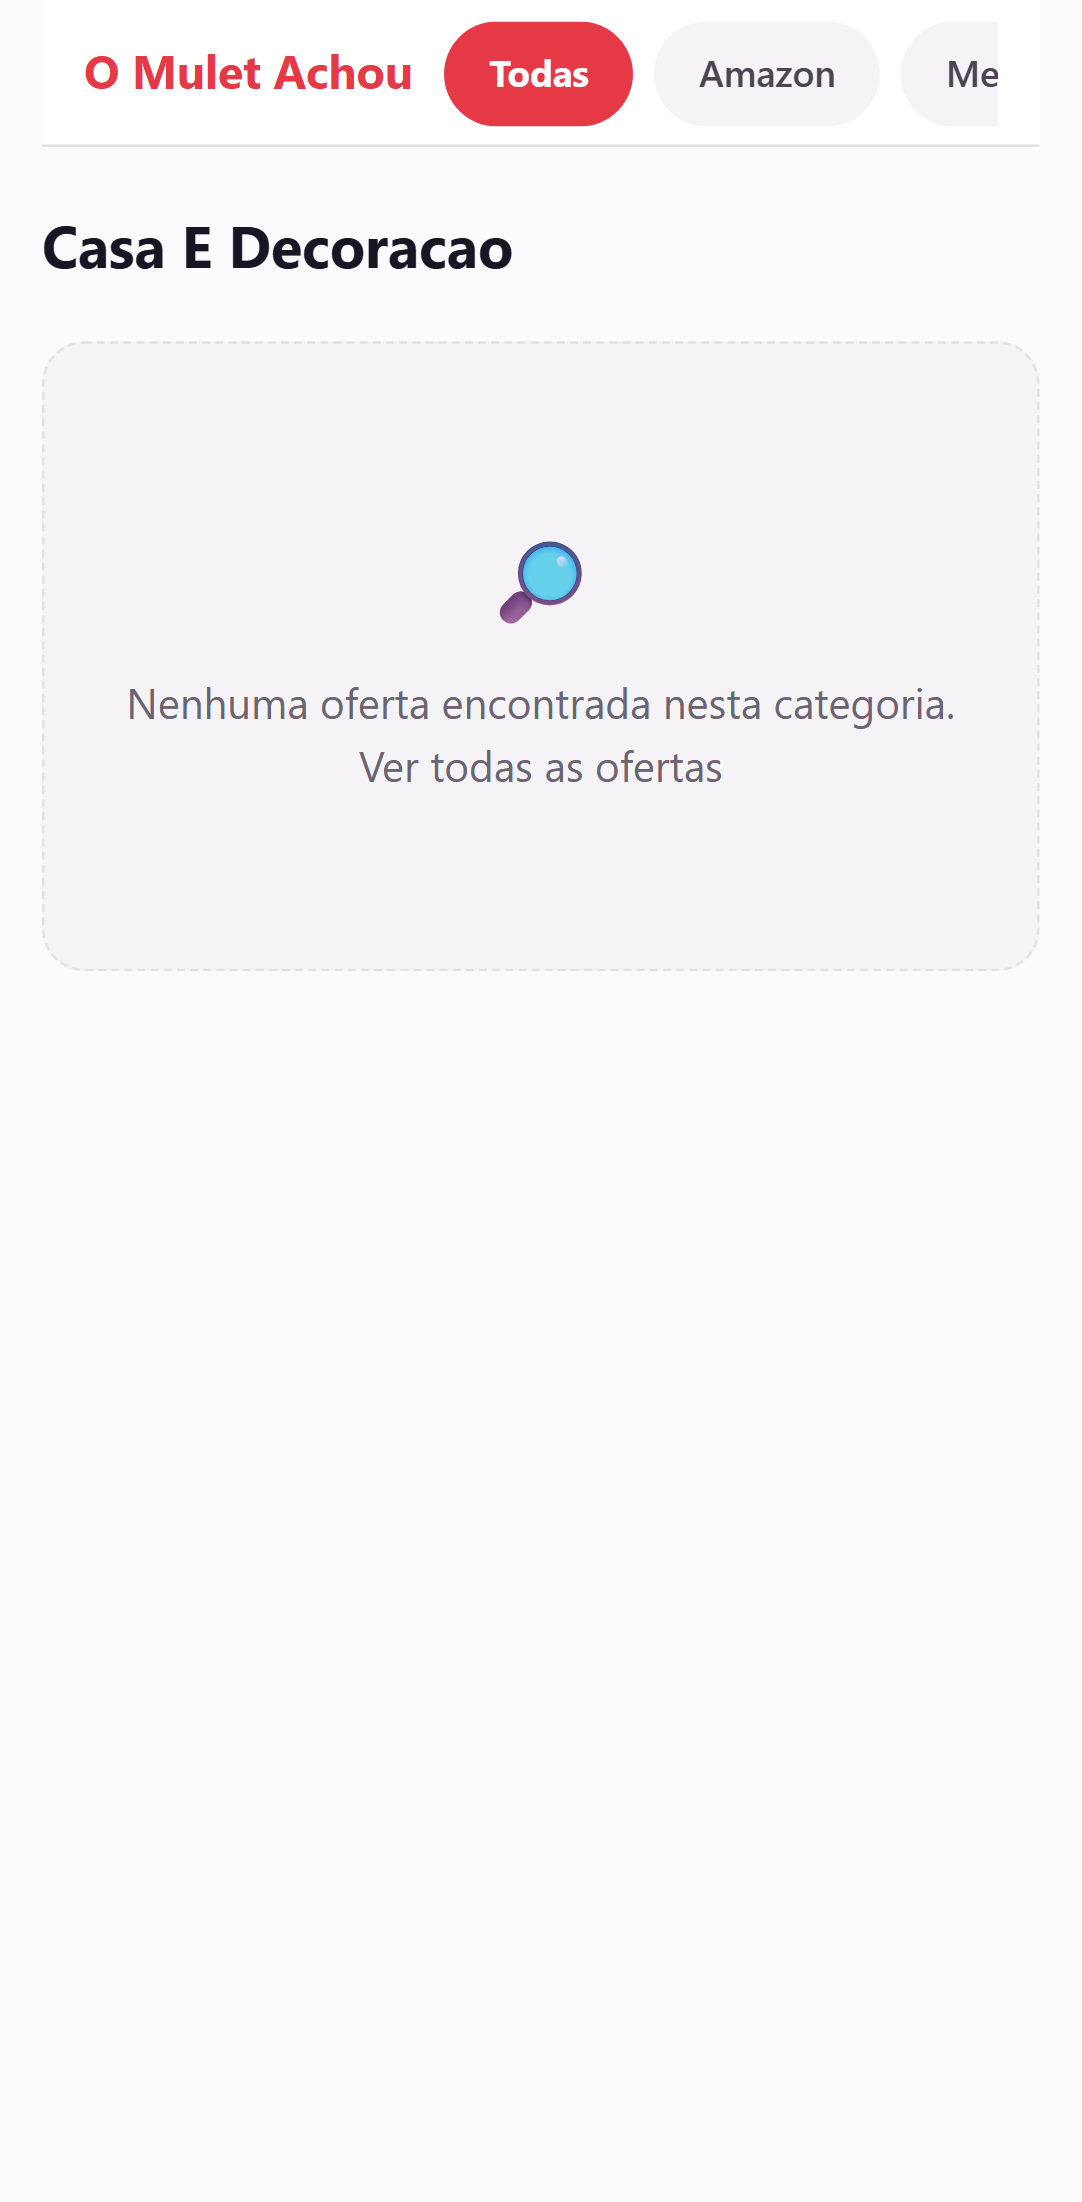
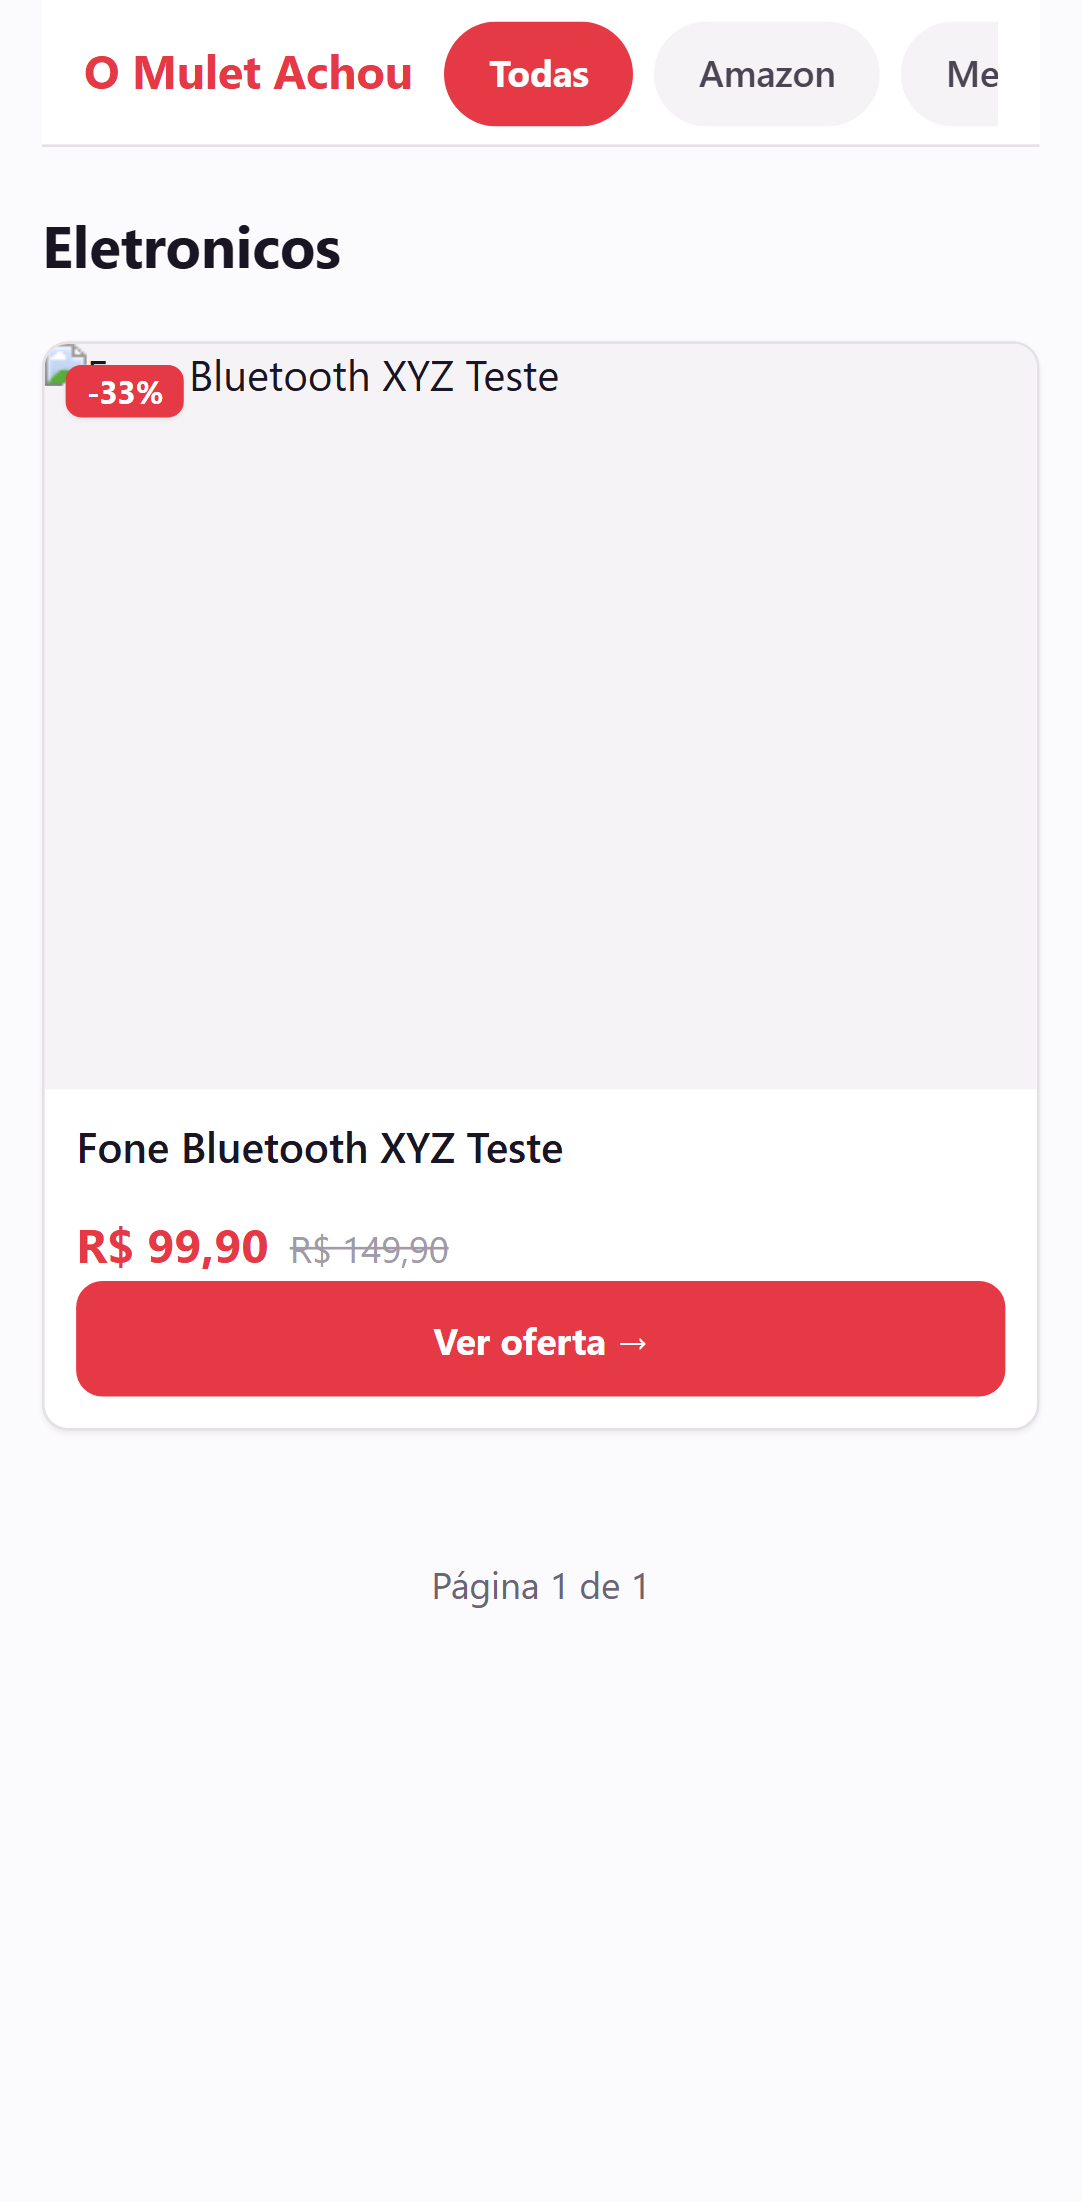
docs(ISSUE-154): registra Code Review aprovado PR #161 (merge desenv->homolog) + screenshots atualizados

diff --git a/documentacoes/ISSUE-154-site-sem-css/estado.md b/documentacoes/ISSUE-154-site-sem-css/estado.md
@@ -1,8 +1,8 @@
 ---
 issue: 154
 titulo: "bug: Site público (website) sem nenhum estilo CSS implementado — apenas HTML puro"
-etapa_atual: "Novo PR de homologação criado (#161, desenv->homolog) cobrindo fix pós-QA de #156 — aguardando /code-review + Code Review"
-ultimo_agente: lt
+etapa_atual: "Code Review aprovou PR #161 (validação final, header ausente em deal-detail corrigido) — merge desenv->homolog concluído — aguardando QA"
+ultimo_agente: code-review
 rota: normal
 openspec_change: repos/omuletachou/openspec/changes/issue-154-site-sem-css
 tech_stacks: [nodejs]
@@ -16,7 +16,7 @@ sub_issues: ["#156 (stack:nodejs, task_id:T-01) — fechada novamente (fix heade
 desenv_tasks_merged: ["#156"]
 pr_feature: "#160 (feature/ISSUE-156-header-deal-detail -> desenv, squash merged, delete-branch) — fix pontual do achado de QA (PR #157 é histórico do ciclo anterior)"
 sub_issues_frontend: {}
-pr_homologacao: "#161 (desenv -> homolog, merge commit) — novo PR cobrindo o fix de #156 (PR #160); PR anterior #158 já mesclado/fechado em ciclo anterior"
+pr_homologacao: "#161 (desenv -> homolog, merge commit, MERGEADO) — cobriu o fix de #156 (PR #160); PR anterior #158 já mesclado/fechado em ciclo anterior"
 pr_release: ~
 code_review_homolog_pr: 161
 qa_status: ~
@@ -80,8 +80,8 @@ Não há ambiguidade arquitetural real: não é decisão de arquitetura de siste
 9. Líder Técnico: mapear falha do QA → reabrir sub-issue #156 — **feito**
 10. Dev: fix pontual (`<Header />` em `app/oferta/[slug]/page.tsx`) — **feito** (PR #160)
 11. Líder Técnico: merge PR #160 → desenv + novo PR de homologação #161 (desenv→homolog) — **feito**
-12. Sessão principal: `/code-review` + Code Review — **pendente**
-13. QA (nova rodada) → Gate 2 (Gerente) → merge main — **pendente**
+12. Sessão principal: `/code-review` + Code Review — **feito, aprovado (PR #161 merge desenv→homolog concluído)**
+13. QA (nova rodada) → Gate 2 (Gerente) → merge main — **próximo**
 
 ## UX/UI — Spec visual — concluído
 
@@ -207,6 +207,36 @@ Diferente do ciclo anterior: o PR de homologação anterior (#158, `desenv`→`h
 - **Novo PR de homologação criado**: **#161** (`desenv` → `homolog`, merge commit — nunca squash), referenciando no corpo que corrige o achado de QA do ciclo anterior (PR #158 / `relatorio-qa.md`), já que o PR #158 anterior já estava mesclado e fechado.
 - `repo_path` deixado checked out em `desenv`.
 
+## Code Review — PR #161 (validação final)
+
+Segunda camada de gate para o fix pontual pós-QA (achado trivial e contido — sessão principal já havia feito uma revalidação de escopo do diff, comentário [#161](https://github.com/DQM-BETA/omuletachou/pull/161#issuecomment-5294886574), sem necessidade de rodar `/code-review` completo novamente; único comentário de `/code-review` no PR foi a revalidação da própria sessão principal, sem achados bloqueantes).
+
+**Execução realizada:**
+
+1. `git fetch && git checkout desenv && git pull origin desenv` — já em `desenv`, `d2722ce` (up to date, inclui commit `fec0bb6` do fix `<Header />` + `1f2461b`/`d2722ce` do ledger).
+2. Confirmado no código (`git show desenv:website/app/oferta/[slug]/page.tsx`): `import Header from '@/components/Header'` (linha 5) + `<Header />` renderizado dentro de `<main>` (linha 62), antes do JSON-LD/`<DealDetail />`.
+3. `npm test` (Jest, `website/`): **80/80 passando** (14 test suites), sem regressão — confirma a contagem esperada (79 pré-existentes + 1 novo de regressão CA-1/CA-8).
+4. `npm run build` (`website/`): `✓ Compiled successfully`, `Linting and checking validity of types...` sem erros, 5 rotas geradas (incl. `/oferta/[slug]`).
+5. **Stack Docker real**: `.env` local descartável (a partir de `.env.example`, valores dummy — `DB_PASSWORD`/`JWT_SIGNING_KEY` gerados localmente, nunca reais) + `docker-compose.override.yml` local descartável (expõe 5432/8080/3000 ao host — serviços não têm `ports:` por padrão). `docker compose up -d --build db api website`: build completo (API .NET + Website Next.js standalone), todos os containers `healthy`/`Up`. Catálogo vazio no ambiente local → **2 produtos seedados via SQL direto** (`INSERT INTO products ...`, schema conferido via `\d products`; `status=2` = `Published`, `platform` 0/1 = Amazon/MercadoLivre) — "Fone Bluetooth XPTO Pro" (`slug=fone-bluetooth-xpto-pro`, com desconto/CTA habilitado) e "Mouse Gamer RGB" (`slug=mouse-gamer-rgb`). `curl http://localhost:8080/api/public/deals` confirmou os 2 produtos retornados pela API real.
+6. **Reprodução exata do comando que o QA usou para reprovar**: `curl http://localhost:3000/oferta/fone-bluetooth-xpto-pro | grep -c site-header` → **1** (era 0 antes do fix, no ciclo anterior/PR #158). Confirmado também para `/oferta/mouse-gamer-rgb` → **1**, e ausência de duplicação em `/` (Home) → **1** e `/categoria/Eletronicos` → **1**. Fix comprovado ao vivo, não apenas por leitura de diff.
+7. **Gate Visual**: `SCREENSHOTS_DIR=.../screenshots-cr npm run test:visual` (`STAGING_URL=http://localhost:3000`, contra o container Docker real, não o `webServer` local): **3/3 passed** (Home, Categoria, `deal-detail`). Screenshots **inspecionados visualmente**:
+   - `deal-detail.png`: header ("O Mulet Achou" + chips de plataforma "Todas"/"Amazon"/"Me...") visível **exatamente 1x** no topo, sem duplicação, seguido de mídia do produto, título, categoria, preço atual/riscado, CTA "Comprar agora →" e seção "Mais ofertas" reaproveitando `.deal-card`. Layout completo e coerente com `ux-ui-spec.md`.
+   - `home.png`: header 1x, sem duplicação, grid de cards com badge `%OFF`, preço, CTA "Ver oferta →", paginação "Página 1 de 1". Sem regressão.
+   - `categoria.png`: header 1x, sem duplicação, mesmo grid/card da Home, título "Eletronicos". Sem regressão.
+   - Nenhuma quebra em Home/Categoria — o fix é estritamente aditivo à página de detalhe.
+8. Checklist de veto:
+   - **Sem segredos commitados**: `.env`/`docker-compose.override.yml` locais descartáveis (gitignored/nunca adicionados ao stage), removidos ao final; `git status --short` sem resíduo relacionado. Grep no diff do PR por `password|secret|api[_-]?key|token` só retorna ocorrências em texto de documentação (`estado.md`/`relatorio-qa.md`), não em código/config.
+   - **Conformidade com `repos/omuletachou/CLAUDE.md`**: branch `feature/ISSUE-156-header-deal-detail` (padrão correto `feature/ISSUE-NNN-descricao`), squash feature→desenv, merge commit desenv→homolog (nunca squash) — respeitado pelo LT.
+   - **Integração real**: build+boot via Docker real (não mock) — API .NET real, Postgres real, teste de regressão em `page.test.tsx` renderiza o Server Component `OfertaPage` de verdade (`render(jsx)` do React Testing Library sobre o componente async real, não um mock de `<Header>`), reprodução do bug via `curl` contra o container real.
+   - **Sem teste-lixo**: teste de regressão novo (`page.test.tsx`) faz asserts reais e específicos (`container.querySelectorAll('.site-header').length` === 1 + presença do link "O Mulet Achou"), não trivial/vazio.
+   - **`.first()`/`.nth()`/`.last()`**: nenhuma ocorrência no diff do PR #161 (`gh pr diff 161` grepado) — sem veto aplicável.
+   - **Diff mínimo e contido** (`gh pr diff 161`): apenas `import Header` + `<Header />` em `page.tsx` (2 linhas) + 1 teste novo em `page.test.tsx` (11 linhas) + atualização de `estado.md`. Nenhuma mudança de CSS/dados/rotas/API/config de deploy.
+9. Ambiente Docker removido (`docker compose down -v`), imagens locais buildadas removidas (`docker rmi omuletachou-website omuletachou-api`), `.env`/`docker-compose.override.yml` apagados, `screenshots-cr/` (evidência temporária deste CR, não commitada) removido ao final — `git status --short` limpo (exceto artefatos pré-existentes não relacionados a este PR em `documentacoes/ISSUE-154-site-sem-css/screenshots/*.png`, já modificados no worktree antes desta validação, não tocados por este Code Review).
+
+**Veredito: aprovado.** Merge executado: `gh pr merge 161 --repo DQM-BETA/omuletachou --merge` (merge commit `e418d089e3bde005590afd11a5c59cb84ccafab6`, `desenv` → `homolog`). `repo_path` deixado checked out em `desenv`.
+
+Achado original do QA (`relatorio-qa.md`: CA-1/CA-8, header ausente em `/oferta/{slug}`) confirmado resolvido ao vivo — bug de duplicação/ausência estrutural não é mais reproduzível.
+
 ## Ledger de Custo
 
 | # | Etapa | Agente | Modelo | Tokens | Tools | Tempo (s) |
@@ -228,6 +258,7 @@ Diferente do ciclo anterior: o PR de homologação anterior (#158, `desenv`→`h
 | 10 | LT — mapeamento da falha, reabertura #156 | Líder Técnico | Sonnet | 64083 | 15 | 190s |
 | 11 | Dev — fix Header ausente em deal-detail, PR #160 | Dev Node.js | Sonnet | 82317 | 58 | 473s |
 | 12 | LT — merge PR #160 + novo PR homologação #161 | Líder Técnico | Sonnet | 59026 | 11 | 170s |
+| 13 | Code Review — validação final PR #161 (build/boot/testes/visual, merge desenv→homolog) | Code Review | Sonnet | 106308 | 52 | 492s |
 
 ---
 
